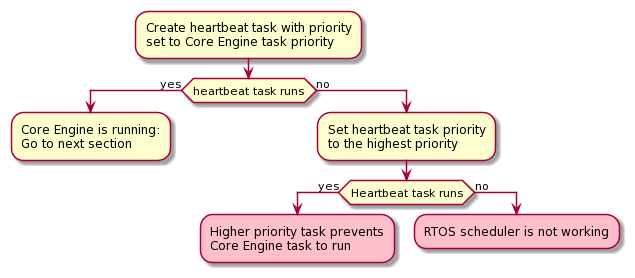
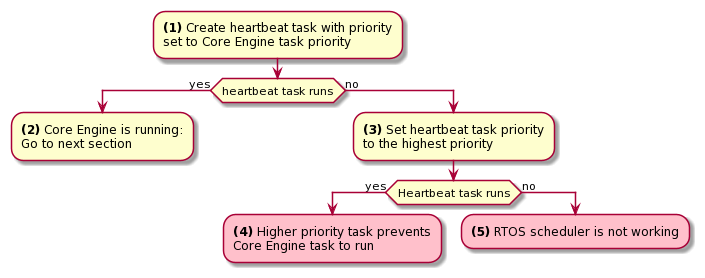
In "Check RTOS Tasks Scheduling", numbering of the steps

diff --git a/Tutorials/tutorialDiscoverEmbeddedDebuggingTechniques.rst b/Tutorials/tutorialDiscoverEmbeddedDebuggingTechniques.rst
@@ -365,16 +365,38 @@ Check RTOS Tasks Scheduling
 Let's start at low level by figuring out if the RTOS is scheduling tasks correctly.
 If possible, use a debugger or :ref:`systemview`; if not, use the heartbeat task described below.
 
-Make one of the RTOS tasks acts like a heartbeat: create a dedicated
+The following flow chart summarizes the investigation steps with a heartbeat task:
+
+..
+   @startuml
+   :**(1)** Create heartbeat task with priority\nset to Core Engine task priority;
+   if (heartbeat task runs) then (yes)
+     :**(2)** Core Engine is running:\nGo to next section;
+     kill
+   else (no)
+     :**(3)** Set heartbeat task priority\nto the highest priority;
+     if (Heartbeat task runs) then (yes)
+       #pink:**(4)** Higher priority task prevents\nCore Engine task to run;
+       kill
+     else (no)
+       #pink:**(5)** RTOS scheduler is not working;
+       kill
+     endif
+   endif
+   @enduml  
+
+.. image:: images/tuto_microej_debug_ui_freeze_rtos_task_heart_beat_priority.png
+
+**(1)** Make one of the RTOS tasks acts like a heartbeat: create a dedicated
 task and make it report in some way at a regular pace (print a message
 on standard output, blink an LED, use SystemView, etc.).
 Set the heartbeat task priority to the same priority as the Core Engine task. 
 
-In this configuration, if the heartbeat is still running when the UI freeze occurs, we can go a step 
+**(2)** In this configuration, if the heartbeat is still running when the UI freeze occurs, we can go a step 
 further and check whether the Core Engine is still scheduling Java threads or not. 
 See next section :ref:`tutorial_discover_embedded_debugging_techniques.check_java_threads_scheduling`.
 
-If the heartbeat doesn't run when the UI freeze occurs, set the heartbeat task priority to the maximum priority.
+**(3)** If the heartbeat doesn't run when the UI freeze occurs, set the heartbeat task priority to the maximum priority.
 
 .. warning:: 
    Some RTOS use a task to schedule the RTOS timers.
@@ -382,36 +404,12 @@ If the heartbeat doesn't run when the UI freeze occurs, set the heartbeat task p
 
 ..
 
-In this configuration, if the heartbeat is still running when the UI freeze occurs, then an RTOS task with a 
+**(4)** In this configuration, if the heartbeat is still running when the UI freeze occurs, then an RTOS task with a 
 priority higher than the Core Engine task keeps using the CPU. 
 Use the RTOS specific tools to identify what is the faulty task.
 
-If the heartbeat doesn't run when the UI freeze occurs, then the RTOS scheduler is not scheduling anything. 
+**(5)** If the heartbeat doesn't run when the UI freeze occurs, then the RTOS scheduler is not scheduling anything. 
 This can be caused by an RTOS timer task or an interrupt handler that never returns, or a crash of the RTOS scheduler.
-
-The following flow chart summarizes the investigation steps.
-
-
-
-..
-   @startuml
-   :Create heartbeat task with priority\nset to Core Engine task priority;
-   if (heartbeat task runs) then (yes)
-     :Core Engine is running:\nGo to next section;
-     kill
-   else (no)
-     :Set heartbeat task priority\nto the highest priority;
-     if (Heartbeat task runs) then (yes)
-       #pink:Higher priority task prevents\nCore Engine task to run;
-       kill
-     else (no)
-       #pink:RTOS scheduler is not working;
-       kill
-     endif
-   endif
-   @enduml  
-
-.. image:: images/tuto_microej_debug_ui_freeze_rtos_task_heart_beat_priority.png
 
 .. _tutorial_discover_embedded_debugging_techniques.check_java_threads_scheduling:
 
